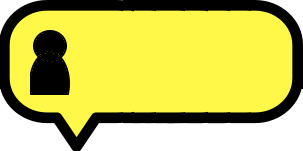
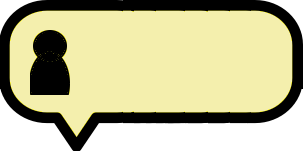
patients panel changing color depending on overflow condition

diff --git a/Assets/02_Scripts/game/gui/chart/ChartManager.cs b/Assets/02_Scripts/game/gui/chart/ChartManager.cs
@@ -23,6 +23,8 @@ public class ChartManager : MonoSingleton
 	public const int CURVE_MAX_WIDTH = 370; // TODO Tune
 	public const int DAY_WIDTH_INCREMENT = (CURVE_MAX_WIDTH - CURVE_MIN_WIDTH) / 20; // 5%
 
+	public Sprite patientsNormalImg;
+	public Sprite patientsOverflowImg;
 	GameObject patientsPanel;
 	GameObject evolutionChart;
     private float elapsedTime = 0.0f;
@@ -100,13 +102,17 @@ public class ChartManager : MonoSingleton
 	}
 
 	private void ShowPatientsIndicator() {
-		patientsPanel.transform.localPosition = CalculatePatientsPanelPosition();
-	}
-
-	private Vector3 CalculatePatientsPanelPosition() {
 		int day = GameManager.instance.localPlayer.gameSession.day;
 		int patients = GameManager.instance.localPlayer.gameSession.patients[day-1];
+		bool isOverflow = patients > GameManager.instance.localPlayer.gameSession.capacity;
+		
+		Image patientsPanelImage = patientsPanel.gameObject.GetComponent<Image>();
+		patientsPanelImage.sprite = isOverflow ? patientsOverflowImg : patientsNormalImg;
 
+		patientsPanel.transform.localPosition = CalculatePatientsPanelPosition(day, patients);
+	}
+
+	private Vector3 CalculatePatientsPanelPosition(int day, int patients) {
 		float x = PATIENTS_PANEL_OFFSET_X + GetXForDay(day-1);
 		float y = PATIENTS_PANEL_OFFSET_Y + HEIGHT - GetYForPatients(patients);
 		return new Vector3(x, y, 0);
